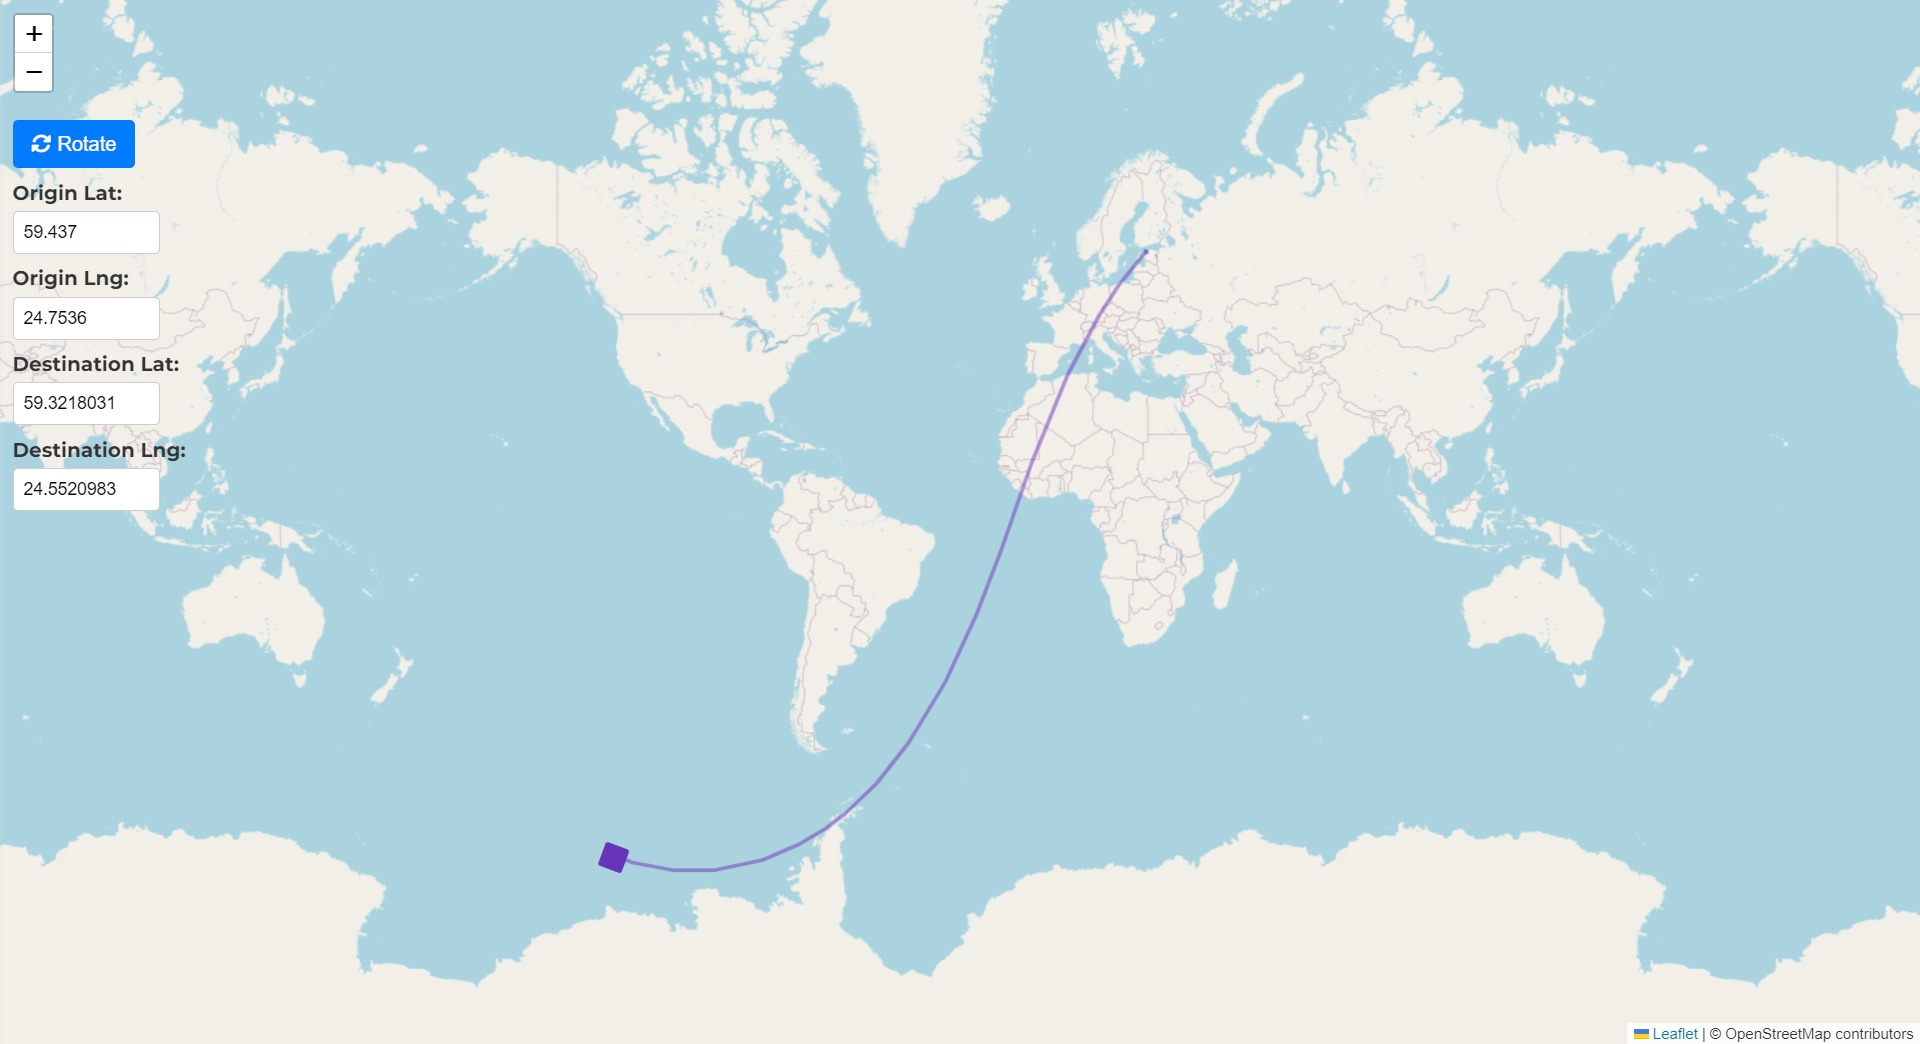
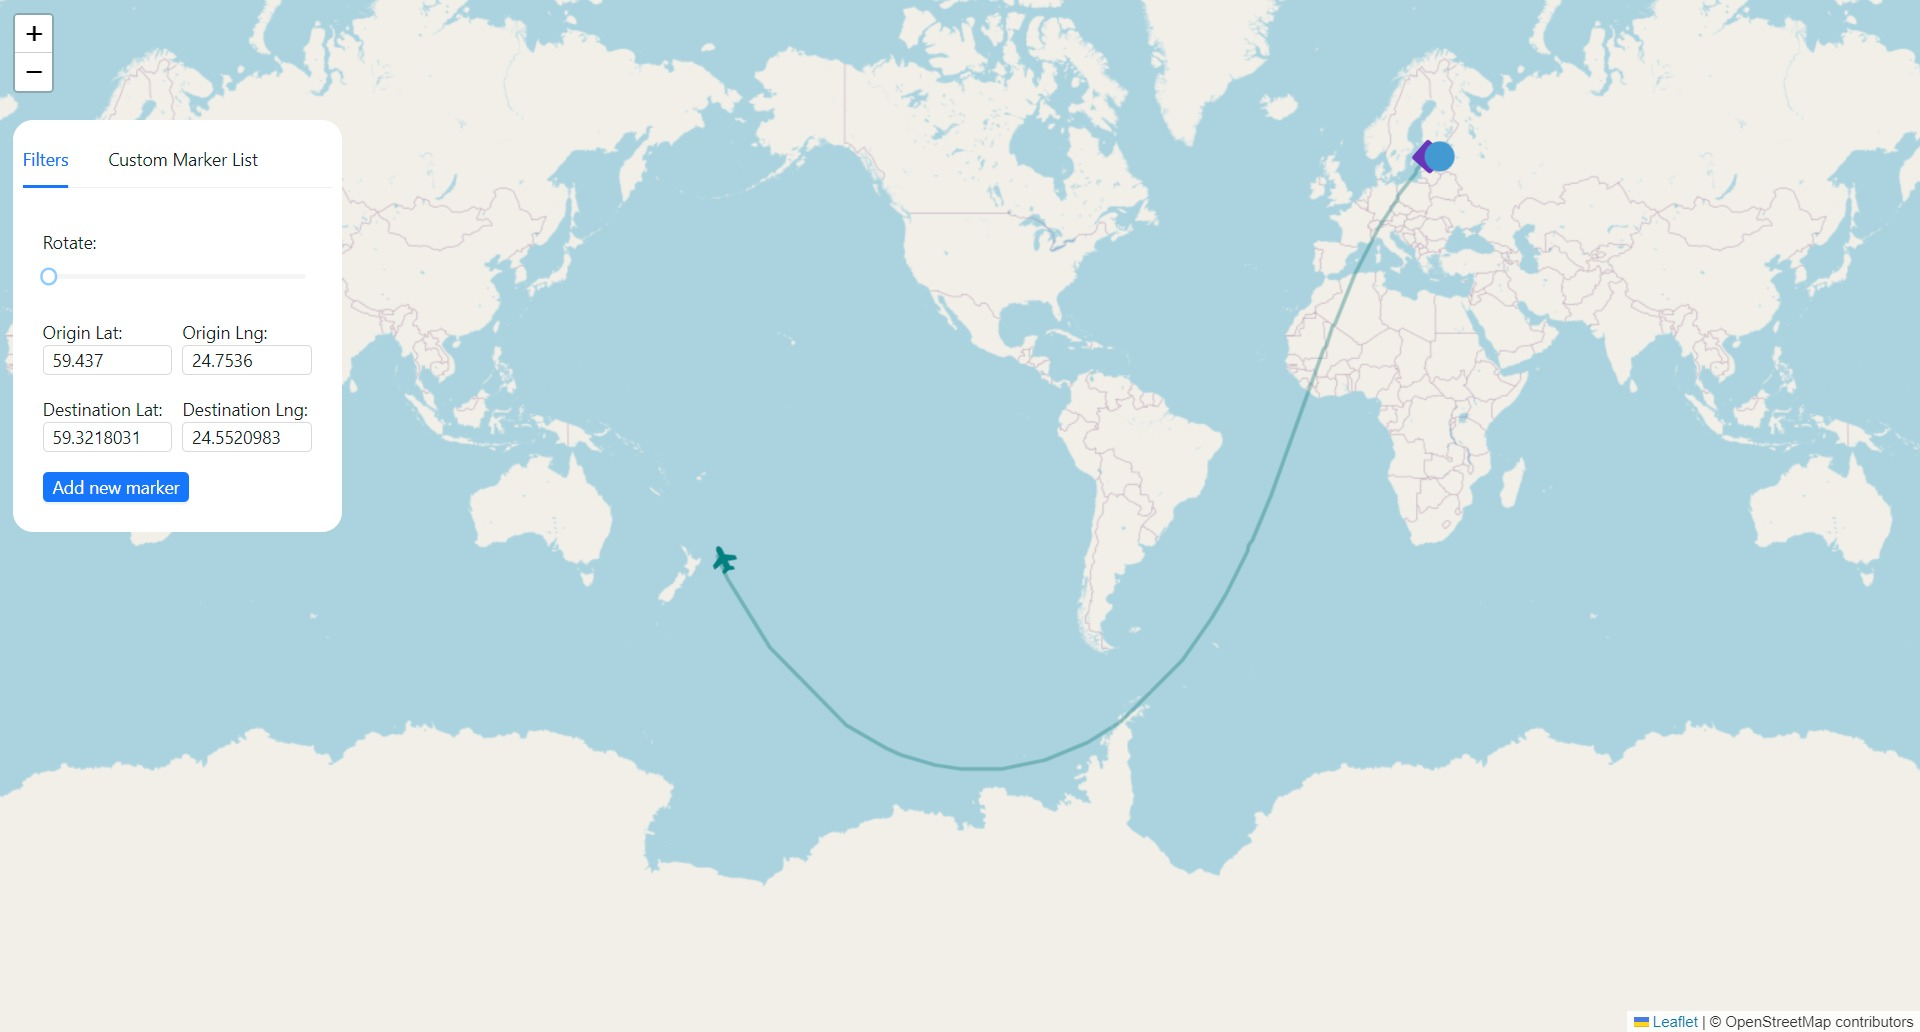
Updated readme

diff --git a/README.md b/README.md
@@ -48,6 +48,8 @@ This application is a simulation of flying objects using ReactJS. It includes a 
 
 ![Main page](./public/images/2.jpg)
 
+![Main page](./public/images/3.jpg)
+
 
 ## Usage
 
